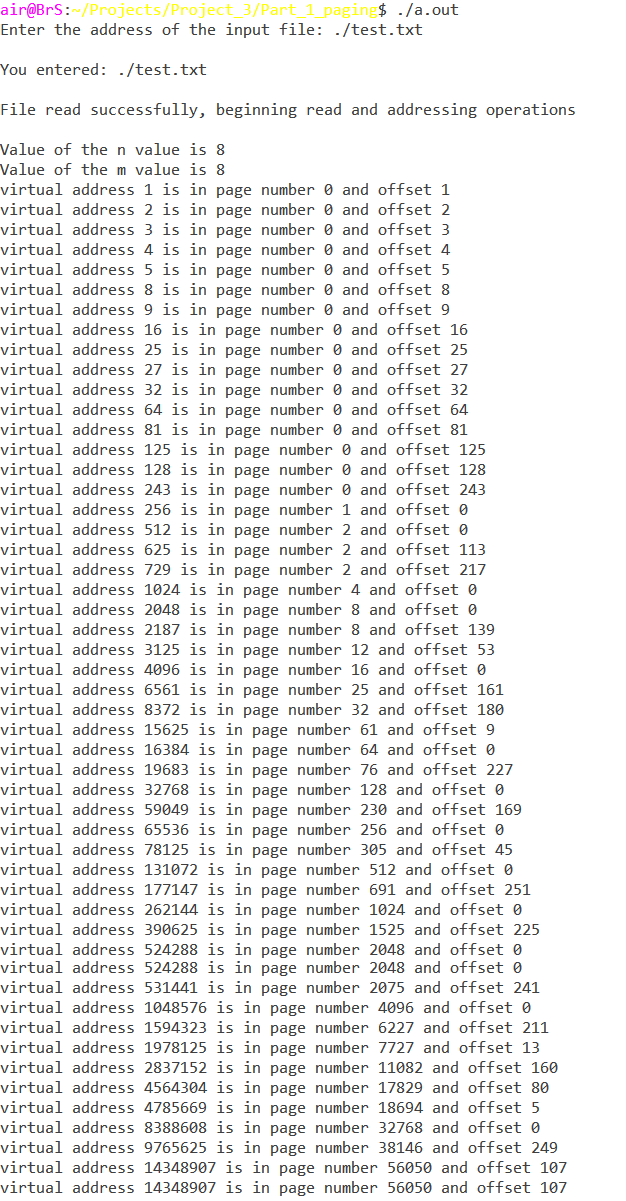
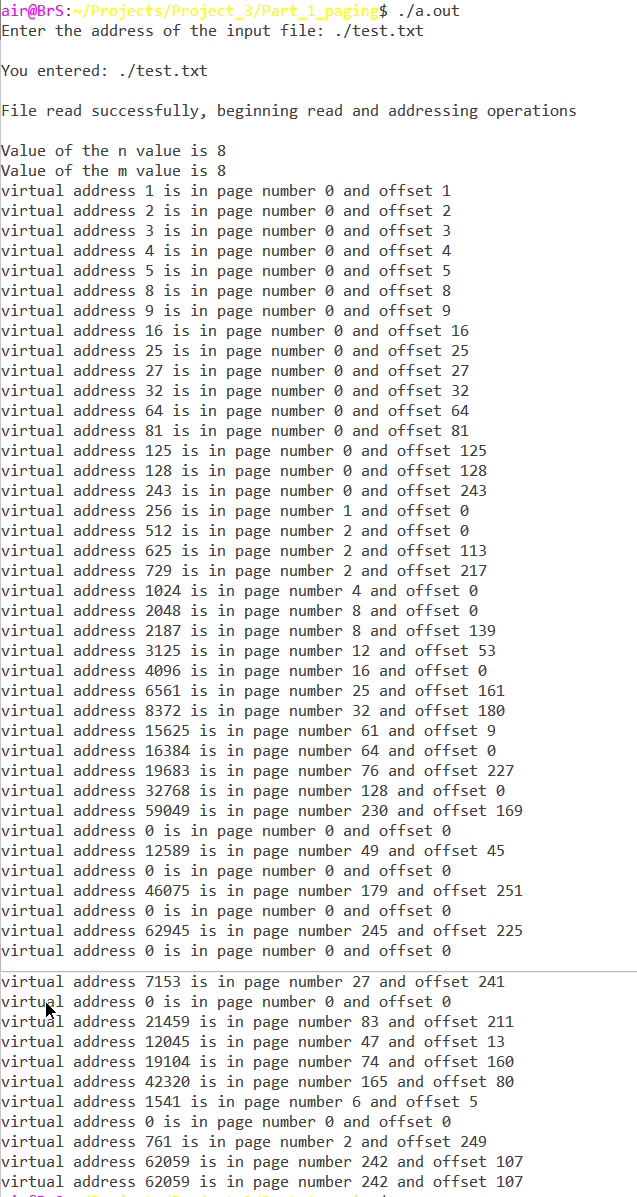
Updated the sample output file with the new overflow bit mask in place
Updated the read me with some more details about the mask and our process that led us there. More info about using integers as binary address representation. Cleaned up the images in the repo to include only in use and relevant info.

Changed region(s): [[0.0, 0.0, 0.9105, 1.0], [0.607, 0.0618, 0.9105, 0.1236], [0.5767, 0.0618, 0.607, 0.0927]]

diff --git a/Project_3/Part_1_paging/README.md b/Project_3/Part_1_paging/README.md
@@ -2,46 +2,45 @@
 
 ## Contributions
 
-- Brian: Code, Documentation (Part 1)
-- Brandon: Code, Documentation (Part 1)
-- Jasper:
-- Rachelle:
+- Brian: Code, Documentation
+- Jasper: Code, Documentation
 
 ## Accomplished Items
-
-###  Part 1
 
 1. Bitwise operator for virtual address page and offset info
 2. File IO to read input file for addresses to process
 3. File IO for user specified file and file path
 4. Feedback to user regarding program status
-
-
-
+5. 16-bit mask as per requirement
 
 ## 1 Build instructions   
 
 ### Part 1: Paging
 1. We start by compiling the file by executing `gcc pageTable.c` which returns a file named `a.out`
 2. Run `a.out` by the command `./a.out`
-  - While running `a.out` input the file directory as `./test.txt` to access the sample file we have provided 
+  - While running `a.out` input the file directory as `./test.txt` to access the sample file we have provided
   - Sample output should look like:
-  
+
 ![The sample output of the file read](/images/bitwise.png)
 
 ## 2 Discussion of process  
 
 **2.1 C Program**  
 
-The file I/O portion was relatively straight forward. Give it a file, load the file, and iterate through the results. I ran in to a lot of trouble trying to distinguish when I needed to put `&` before a variable and when not to. My dev. env. did not provide much error detection and I had to rely on the error messages when `gcc` tried to compile `pageTable.c`. Due to a lack of familiarity with C, it was hard to determine a good method to iterate through the target file. A lot of data mismatch and random errors due to typos later, I was finally able to complete it. 
-
-
+The file I/O portion was relatively straight forward. Give it a file, load the file, and iterate through the results. I ran in to a lot of trouble trying to distinguish when I needed to put `&` before a variable and when not to. My dev. env. did not provide much error detection and I had to rely on the error messages when `gcc` tried to compile `pageTable.c`. Due to a lack of familiarity with C, it was hard to determine a good method to iterate through the target file. A lot of data mismatch and random errors due to typos later, I was finally able to complete it.
 
 ## 3 Appendix
 
 **3.1 Test file setup**
 
-Our test file has integers that were powers of 2, 3, and 5. Thus, many of the numbers fall right on the page limit given it was a power of 2. To demonstrate that our bitwise operator worked with other values. Integers multiplied to powers of 3 and 5 were included as well. To show values within pages with a proper offset value. 
+Our test file has integers that were powers of 2, 3, and 5. Thus, many of the numbers fall right on the page limit given it was a power of 2. To demonstrate that our bitwise operator worked with other values. Integers multiplied to powers of 3 and 5 were included as well. To show values within pages with a proper offset value.
 
-The setup of our test file is setting the first two values n and m are both 8 to follow the assumption given in the assignment that `n + m is 16`. The following values are virtual address that are to be processed. 
+The setup of our test file is setting the first two values n and m are both 8 to follow the assumption given in the assignment that `n + m is 16`. The following values are virtual address that are to be processed.
 
+**3.2 Binary file uncertainty**
+
+We were not sure in what format the virtual addresses would be in. We have ran inputs with pure binary numbers, as well as, normal integers. We decided to use simple integer numbers generated through the process mentioned above. Which was chosen for its simplicity while allowing us to test and demonstrate the working program.
+
+**3.3 16-bit addressing**
+
+Following the process outlined in the project requirements, we used a mask to make the virtual address comply to the 16-bit limit. If the integers within the test file exceed that limit, it will overflow and return a zero value in the output. The overflow is seen in the sample output file.

diff --git a/Project_3/Part_2_fileSystem/README.md b/Project_3/Part_2_fileSystem/README.md
@@ -5,7 +5,7 @@
 - Rachelle: Documentation
 
 ## 2 Design and Implementation Decisions
-The instructions made it very clear and left room for unique implementation decisions. The most notable design challenge was having to use many pointers which proved difficult however that is the nature of C. 
+The instructions made it very clear and left room for unique implementation decisions. The most notable design challenge was having to use many pointers which proved difficult however that is the nature of C.
 
 ## 3 Sample Output
 For the sample input file `lab3input.txt` the following output is displayed:
@@ -31,4 +31,4 @@ lab2.jav
 1. Create the filesystem by building `CMakeLists.txt` with line `CMakeLists.txt:7` uncommented. Name the filesystem `disk0`
 2. Move a copy of `lab3input.txt` to your cmake build folder so that it is in the same directory as the filesystem
 3. Change the CmakeLists.txt to uncomment `Part_2_fileSystem/closh.c` to run part 2. (Be sure to re-comment line 7)
-4. You can use `closhMode` by changing the `closhMode` variable to `1` on line `Part_2_fileSystem/closh.c:14`. This will change whether the program will run the script file or have an interactive console. 
+4. You can use `closhMode` by changing the `closhMode` variable to `1` on line `Part_2_fileSystem/closh.c:14`. This will change whether the program will run the script file or have an interactive console.
